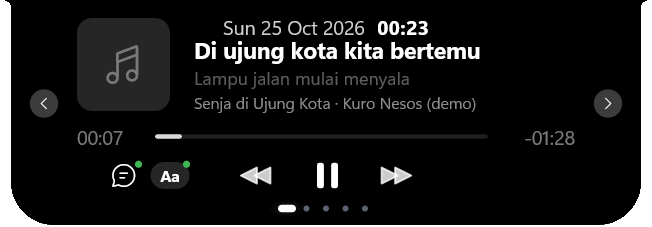
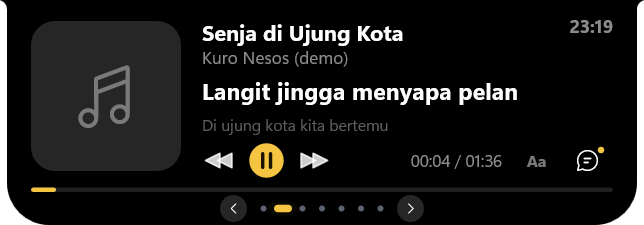
README: new screenshots of every page
Home, Settings and Shelf are new; Music, Pomodoro, Water, To-do, the lyric pill and the alerts are retaken with the 1.2 design. The demo song keeps the steady equalizer loop since it makes no sound.

Changed region(s): [[0.0, 0.0, 1.0, 1.0], [0.8075, 0.56, 0.9006, 0.6533], [0.1242, 0.0622, 0.2484, 0.0933]]

diff --git a/src/ui/paint.rs b/src/ui/paint.rs
@@ -97,7 +97,8 @@ impl App {
     /// output cannot be read). `x` is the left edge of the `EQ_W`-wide strip.
     pub(super) fn eq_bars(&self, x: f32, cy: f32, color: u32) {
         let t = self.started.elapsed().as_secs_f32();
-        let live = self.beat.live();
+        // the demo song makes no sound, so it keeps the steady loop
+        let live = self.beat.live() && !self.demo.lyrics;
         let mid = EQ_BARS / 2;
         for i in 0..EQ_BARS {
             let band = i.abs_diff(mid);
